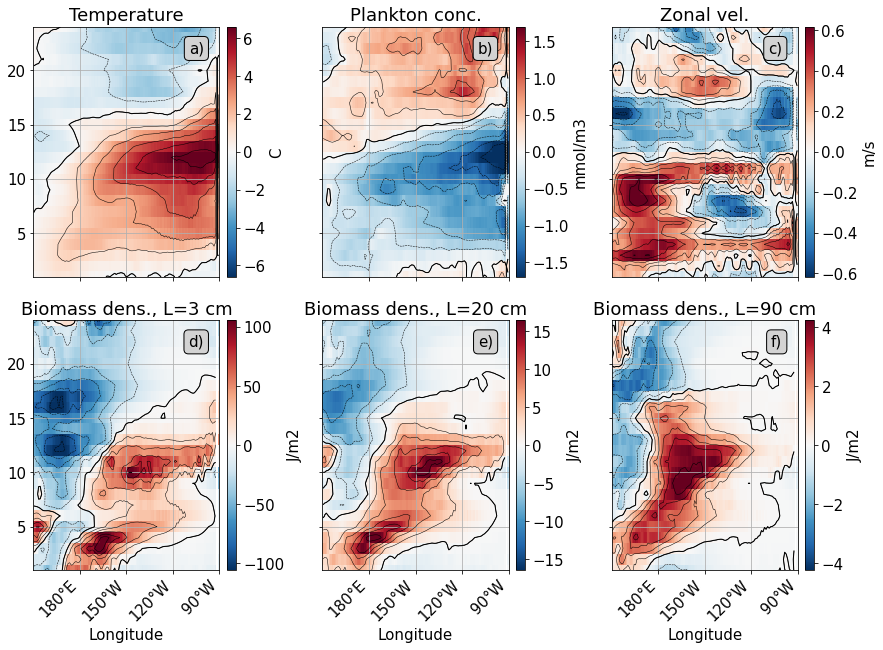
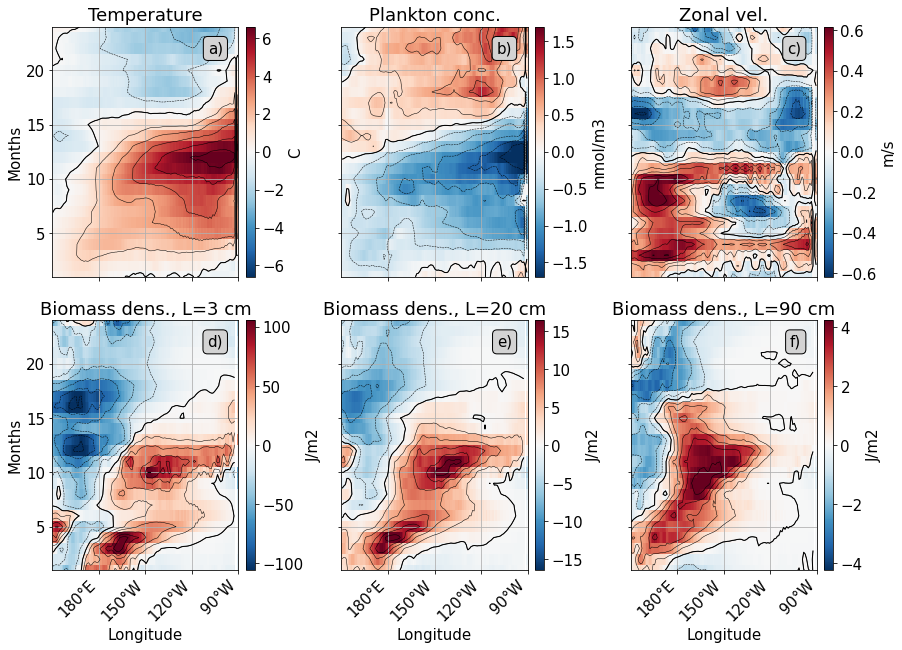
Adding labels

diff --git a/scripts/new-97/plot_all_hovmoller_phys_oope.py b/scripts/new-97/plot_all_hovmoller_phys_oope.py
@@ -24,8 +24,6 @@ from cartopy.mpl.ticker import LongitudeFormatter
 zmax = 50
 formatter0 = LongitudeFormatter(dateline_direction_label=True)
 
-plt.rcParams['text.usetex'] = False
-
 latmax = 5
 
 letters = list(string.ascii_lowercase)
@@ -85,6 +83,7 @@ grid = ImageGrid(fig, 111,  # similar to subplot(111)
                  cbar_mode='each', aspect=False, cbar_pad=0.1)
 cbar_axes = grid.cbar_axes
 stride = 3
+plt.rcParams['text.usetex'] = False
 plt.rcParams['font.size'] = 15
 
 y = np.arange(1, 25)
@@ -122,6 +121,7 @@ for v in ['thetao', 'PLK', 'uo']:
     cb = plt.colorbar(cs, cbar_axes[cpt])
     ax.grid(True)
     ax.set_xlabel('Longitude')
+    ax.set_ylabel('Months')
     ax.set_title(names[v])
     cb.set_label(units[v])
     ax.text(lontext, lattext, letters[cpt] + ")", ha='right', va='center', bbox=dicttext, fontsize=fs)
@@ -144,6 +144,7 @@ for l in range(nlength):
     cb.set_label(units['oope'])
     ax.grid(True)
     ax.set_xlabel('Longitude')
+    ax.set_ylabel('Months')
     ax.text(lontext, lattext, letters[cpt] + ")", ha='right', va='center', bbox=dicttext, fontsize=fs)
     ax.xaxis.set_major_formatter(formatter0)
     labels = ['180', '-150', '-120', '-90']
